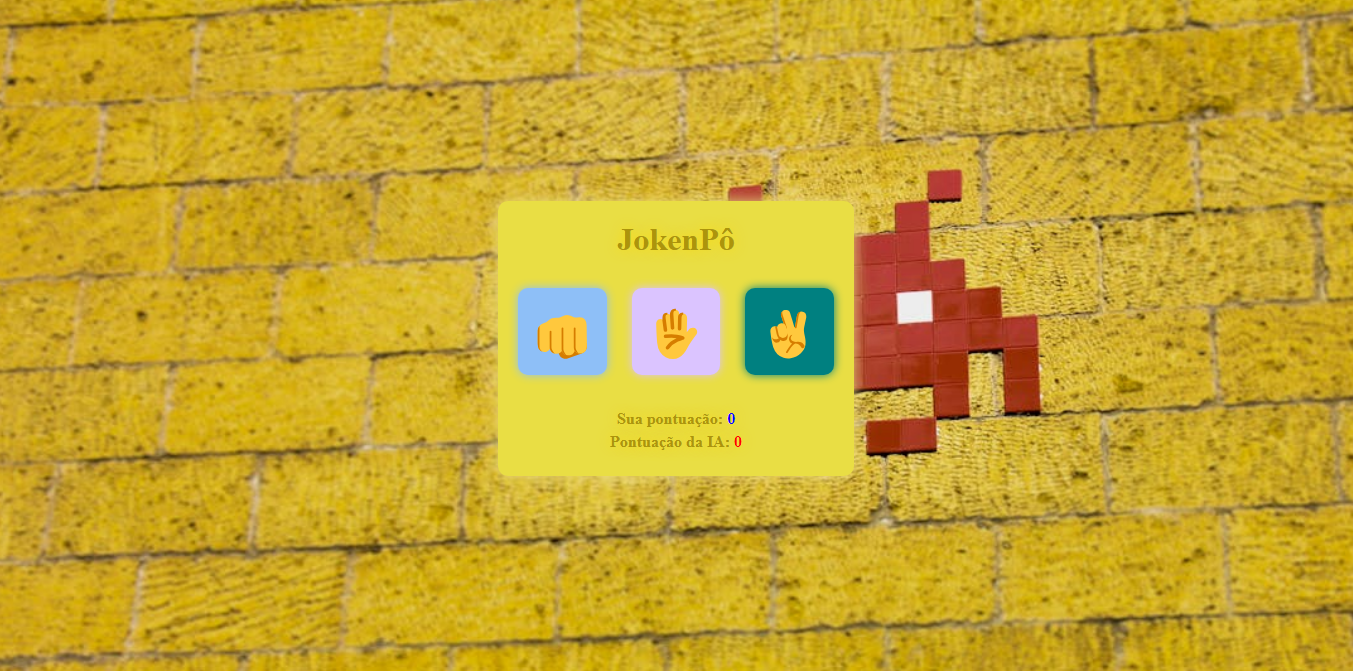
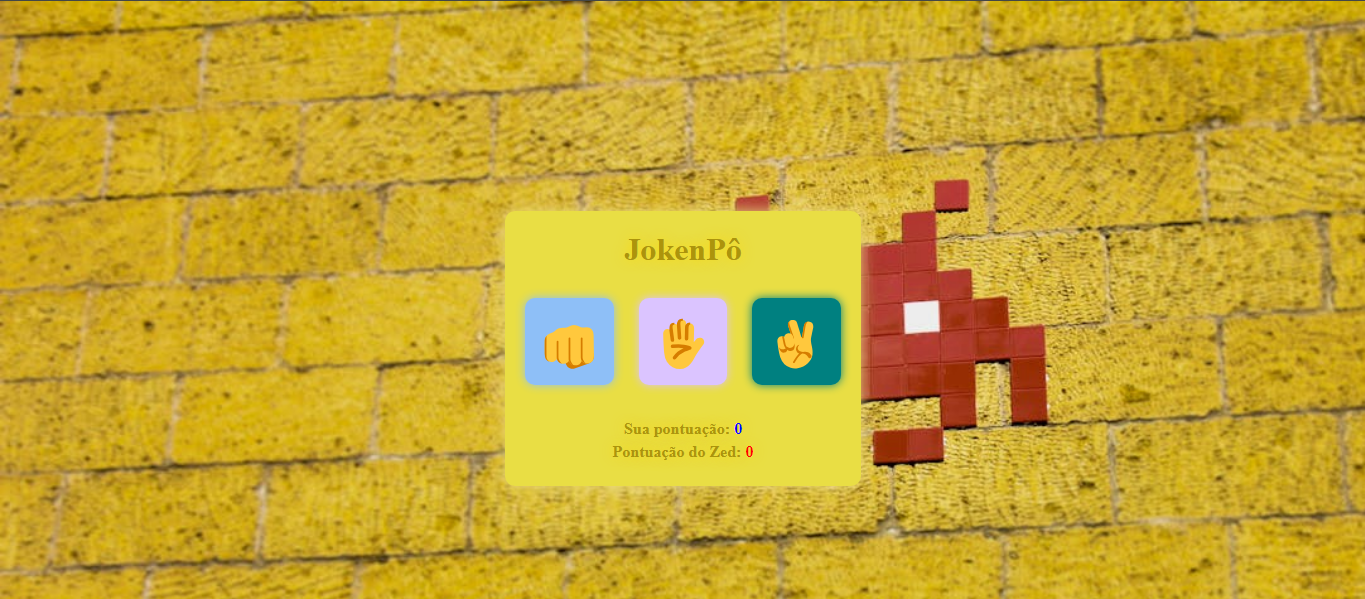
Alteração do nome na <p> para Zed e salvando uma nova imagem do projeto pronto

diff --git a/index.html b/index.html
@@ -17,7 +17,7 @@
 </div>
 <p class="result"></p>
 <p class="your-score">Sua pontuação: <span id="you-score">0</span></p>
-<p class="machine-score">Pontuação da IA: <span id="machine-score">0</span></p>
+<p class="machine-score">Pontuação do Zed: <span id="machine-score">0</span></p>
 
 </div>
 </body>
